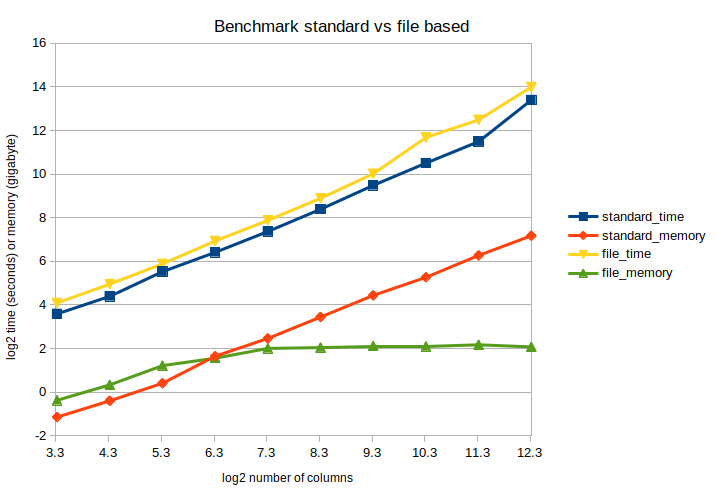
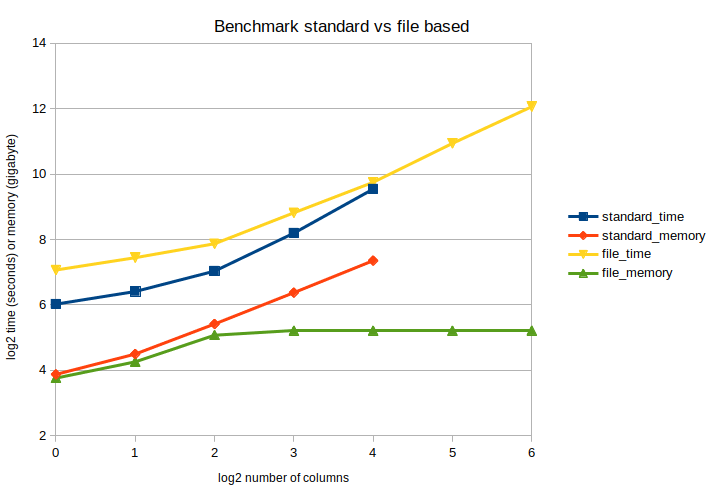
almost there

diff --git a/qnorm/quantile_normalize.py b/qnorm/quantile_normalize.py
@@ -127,9 +127,6 @@ if pandas_import:
             ncpus: The number of cpus to use. Scales diminishingly, and more
                 than four is generally not useful.
         """
-        if os.path.exists(outfile):
-            os.remove(outfile)
-
         if infile.endswith((".hdf", ".h5")):
             dataformat = "hdf"
             columns, index = parse_hdf(infile)
@@ -253,6 +250,9 @@ if pandas_import:
                     np.save(tmpfile, chunk)
                 del qnormed, chunk
                 qnorm_tmp.append(col_tmpfiles)
+
+            if os.path.exists(outfile):
+                os.remove(outfile)
 
             # glue the separate files together and save them
             if dataformat == "hdf":

diff --git a/README.md b/README.md
@@ -2,6 +2,7 @@
 [![PyPI version](https://badge.fury.io/py/qnorm.svg)](https://badge.fury.io/py/qnorm)
 [![Anaconda version](https://anaconda.org/conda-forge/qnorm/badges/version.svg)](https://anaconda.org/conda-forge/qnorm)
 ![tests](https://github.com/Maarten-vd-Sande/qnorm/workflows/tests/badge.svg)
+[![DOI](https://zenodo.org/badge/276373404.svg)](https://zenodo.org/badge/latestdoi/276373404)
 
 Quantile normalization made easy! This tool was developed as the current (Python) implementations scattered across the web do not correctly resolve collisions/ties in the ranks. Properly resolving rank ties is important when ties happen frequently, such as when working with discrete numbers (integers) in count tables. This implementation should be relatively *fast*, and can use multiple cores to sort the columns and tie-resolvement is accelerated by numba.
 
@@ -32,7 +33,7 @@ D  4.666667  3.000000  5.666667
 
 Qnorm accepts an (optional) axis argument, which is used to normalize along. If axis=1 (default), standardize each sample (column), if axis=0, standardize each feature (row).
 
-**note**: The function quantile_normalize also accepts numpy arrays. 
+* **note**: The function quantile_normalize also accepts numpy arrays. 
 
 ### Multicore support
 
@@ -99,25 +100,42 @@ Using more than four cpus generally does not lead to a much bigger speedup.
 
 ### memory efficient quantile norm
 
-In case you want to quantile normalize excessively large tables, there is a "memory-efficient" implementation. This implementation gets its memory efficiency by calculating the mean "online", which means we calculate it on fractions of the total table and then update the value. The other change is that intermediate results are written to disk. Since disk space is slower than memory, this automatically means that this implementation is slower than the standard implementation. However the memory efficient method can scale to virtually infinitely large tables (or until you run out of disk space).
+In case you want to quantile normalize excessively large tables, there is a "memory-efficient" implementation. This implementation gets its memory efficiency by calculating the mean "online", which means we calculate it on fractions of the total table and then update the value. The other change is that intermediate results are written to disk. This means that this implementation effectively swaps memory to disk, and thus is not "memory hungy", but "disk hungry". However this memory efficient method can scale to virtually infinitely large tables (or until you run out of disk space).
+
+Let's say we want to do something crazy like quantile normalize the human genome in 10 basepair bins. That means we will have around 300.000.000 values per sample. File-based qnorm works with both csv/tsv and hdf files, but for this example we will work with hdf files since they are faster (make sure to set `data_columns=True`).
+
+```python
+df = pd.DataFrame(index=range(300_000_000), columns=["sample"+str(col) for col in range(64)])
+df[:] = np.random.randint(0, 100, size=df.shape)
+df.to_hdf("hg_bins.hdf", key="test", format='table', data_columns=True)
+```
+
+We can now compare the speed and memory of the file-based method vs the "standard" method.
 
 ```python
 import qnorm
 
-qnorm.quantile_normalize_file("intable.csv", "outtable.csv", rowchunksize=1000, colchunksize=64, ncpus=4)
+# file based
+qnorm.quantile_normalize_file("hg_bins.hdf", "hg_bins_qnorm.hdf", rowchunksize=500_000, colchunksize=4, ncpus=4)
+
+# standard
+df = pd.read_hdf(f"hg_bins.hdf").astype("float32")
+qnorm.quantile_normalize(df, ncpus=4)
 ```
-
-The `rowchunksize` and `colchunksize` respectively influence in how large of chunks the output is written to disk and how many columns are being sorted and quantile normalized at the same time. The larger the better, however the defaults should be sufficiently fast.
-
-And the proof is in the pudding, so again a little benchmark. We make tables which again contains samples which consist of 1 million integers integer values between 0-100. These tables consist of `[10, 20, 40, 80, 160, 320, 640, 1280, 2560, 5120]` columns and in our benchmark we read those files from disk, quantile normalize the tables, and write them to disk both with the standard and memory efficient method (default col and row chunksizes):
 
 ![mini benchmark file](imgs/benchmark_files.png)
 
-At the end the timings become a bit messy, but I think that might be related to the fact that I ran this benchmark on a shared server and other people were running their analyses as well. As you see the file based quantile normalization method is a bit slower (1.5 - 2 times), but has a constant memory footprint.
+Our standard method does not come farther that 2^4=16 samples before running out of memory on a 512 gigabyte system! The file-based method has similar timings and even seems to scale better than the standard method for *large* arrays. But it takes *only* an hour to normalize 64 samples.
 
-**note:** Both methods should produce identical results, and neither is more correct than the other.
+The `rowchunksize` and `colchunksize` respectively influence in how large of chunks the output is written to disk and how many columns are being sorted and quantile normalized at the same time. Generally speaking, the larger the better, however the defaults should most of the times be sufficiently fast.
 
-**note:** The memory-efficient implementation requires pandas to be installed (`conda/pip install pandas`)/
+* **note:** Both methods should produce identical results, and neither is more correct than the other.
+
+* **note:** The memory-efficient implementation requires pandas to be installed (`conda/pip install pandas`).
+
+* **note:** When using hdf files make sure to install (py)tables (`conda/pip install pytables`).
+
+* **note:** The input format specifies the output format.
 
 ## Command Line Interface (CLI) example
 
@@ -157,9 +175,9 @@ C       3.0     5.166666666666666       4.666666666666666
 D       4.666666666666666       3.0     5.666666666666666
 ```
 
-**note:** the qnorm cli assumes that the first column and the first row are used as descriptors, and are "ignored" in the quantile normalization process. Lines starting with a hashtag "#" are treated as comments and ignored.
+* **note:** the qnorm cli assumes that the first column and the first row are used as descriptors, and are "ignored" in the quantile normalization process. Lines starting with a hashtag "#" are treated as comments and ignored.
 
-**note:** The CLI requires pandas to be installed (`conda/pip install pandas`)
+* **note:** The CLI requires pandas to be installed (`conda/pip install pandas`)
 
 ## Installation
 
